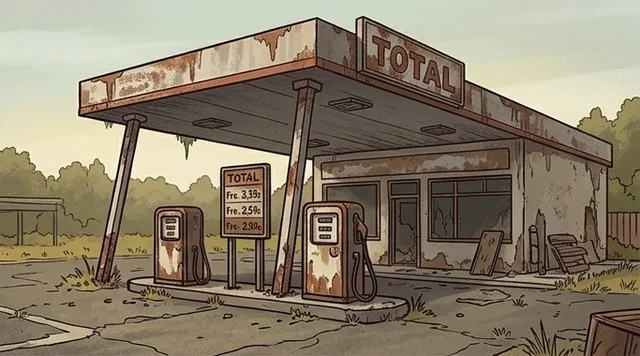
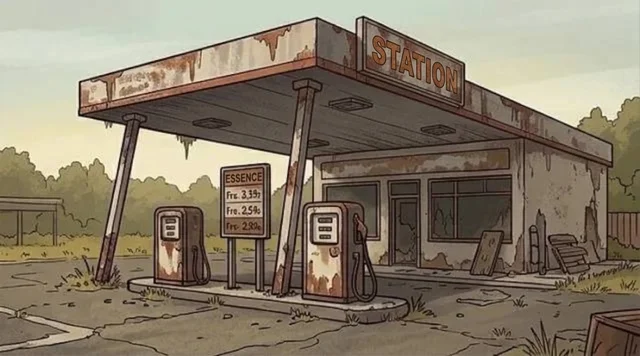
Station-service sans marque réelle (STATION / ESSENCE)

diff --git a/site/sw.js b/site/sw.js
@@ -4,7 +4,7 @@
    IMPORTANT : à chaque mise à jour du jeu, changer VERSION (sinon les
    téléphones garderaient l'ancienne copie).
    ===================================================================== */
-var VERSION = "survival-20261110-1249";
+var VERSION = "survival-20261110-1253";
 var FICHIERS = [
   "./",
   "index.html",

diff --git a/CLAUDE.md b/CLAUDE.md
@@ -155,7 +155,7 @@ Portraits des zombies et de Marco (2026-11-09, Gemini, grille 2 × 2) : `images/
 
 Voiture dessinée (2026-11-09, Gemini, même cadrage pour les deux) : `images/voiture-panne.webp` / `voiture-ok.webp` (recadrées en bande, fond détouré) dans l'onglet 🚗 Voiture ; les 3 emplacements sont posés sur le dessin (`POS_PIECES` en % : batterie dans le moteur, roue sur l'essieu, courroie à l'avant), glisser-déposer inchangé ; réparée = image avec phares allumés. Le contrôleur d'affichage teste aussi l'onglet Voiture. Bandeau de nuit (`images/nuit.webp`, Gemini : le refuge barricadé la nuit, zombies autour) en haut du bilan de chaque nuit (`.banniere`, testé par le contrôleur). Version « aube » (`images/aube.webp`, même cadrage, griffures sur les planches) quand il n'y a pas eu d'attaque, la nuit avec zombies sinon. Images restantes possibles : refuge amélioré (game over fait le 2026-11-10)
 
-Illustrations des lieux (2026-11-09, en cours) : grilles 2 × 2 de Gemini (format 16:9) découpées dans `images/lieux/<nom>.webp` (640 px de large) ; `IMAGES_LIEUX` (nom du lieu → fichier), `imageLieu(L)`, `vignetteLieu(L)` (data.js). Bandeau en haut du résultat de fouille, vignette dans « Où envoyer l'équipe ? » (sinon l'icône dessinée). `preparer-site.py` copie aussi `images/lieux`. Les 20 lieux sont faits (sources dans images/sources/lieux-1..5-gemini.jpg). Les enseignes de la grille 1 sont en anglais (une version française existe chez Fabien, à remplacer s'il envoie le fichier). La station-service affiche la vraie marque « TOTAL » : Fabien a choisi de la garder (2026-11-09) ; à effacer avant une sortie sur les stores (une version effacée a déjà été faite une fois : remplir les panneaux avec leur couleur). Le contrôleur teste aussi la liste des lieux et le résultat
+Illustrations des lieux (2026-11-09, en cours) : grilles 2 × 2 de Gemini (format 16:9) découpées dans `images/lieux/<nom>.webp` (640 px de large) ; `IMAGES_LIEUX` (nom du lieu → fichier), `imageLieu(L)`, `vignetteLieu(L)` (data.js). Bandeau en haut du résultat de fouille, vignette dans « Où envoyer l'équipe ? » (sinon l'icône dessinée). `preparer-site.py` copie aussi `images/lieux`. Les 20 lieux sont faits (sources dans images/sources/lieux-1..5-gemini.jpg). Les enseignes de la grille 1 sont en anglais (une version française existe chez Fabien, à remplacer s'il envoie le fichier). La station-service n'affiche plus de vraie marque depuis le 2026-11-10 : panneaux « STATION » et « ESSENCE » retouchés par Gemini (source `images/sources/station-sans-marque-gemini.jpg`). Le contrôleur teste aussi la liste des lieux et le résultat
 
 Pièces de la maison qu'on fait défiler (2026-11-09, idée de Fabien, images Gemini) : `PIECES` (piece.js) = Salon (refuge-fond), Atelier (`images/piece-atelier.webp`, même format que le salon : établi → Fabriquer, panneau d'outils → Réparer, étagère → Démonter, planches → Construire), Garage (`images/piece-garage.webp`, 768 × 1376, cadre propre : voiture → onglet Voiture, porte du garage → Partir). Chaque pièce a son image, sa taille, son `cadre` et ses `zones` en pixels de son image ; Rex et les planches (`decor`) seulement dans le salon. Changer de pièce : glisser horizontal (piece.js, le clic qui suit est ignoré via `finGlisse`), flèches ◀ ▶ et points en haut (`.navpieces`, sur le côté en mode compact), `allerPiece(k)`. Astuce `pieces`. Les 4 boutons du bas restent. Ordre : Salon → Chambre (`piece-chambre.webp` : lit superposé → Dormir, pulse comme le canapé ; bougie → onglet Construire avec le bilan du refuge ; porte → Partir) → Réserve (`piece-reserve.webp` : étagères → Stock, planches → Construire) → Atelier → Garage (`piece-garage-ok.webp` dès que la voiture est réparée, `img` peut être une fonction) → Cour (`piece-cour.webp` : potager et récupérateur → Construire, poulailler → Stock). `verifNav()` dans controle-affichage.js vérifie la barre des pièces (à lancer avec `toutControler()`). La cour change selon la partie (2026-11-09) : `piece-cour.webp` (potager + récupérateur), `-pot`, `-eau`, `-rien` (variantes Gemini de la même image ; sur `-rien` la palissade est plus basse) choisies par `G.ref.pot` / `G.ref.eau` ; `images/poules.webp` (détourées) devant le poulailler dès qu'on a une poule. Toucher un élément de la cour ouvre SA fenêtre (demande de Fabien) : `openElement(k)` (potager, récupérateur, aussi prévu pour la barricade : niveau, ce qu'il rapporte, bouton Construire / Améliorer qui reste dans la fenêtre, act `buildel`) et `openPoules()` (nombre, œufs, eau bue, risque d'attaque, où en trouver)
 
